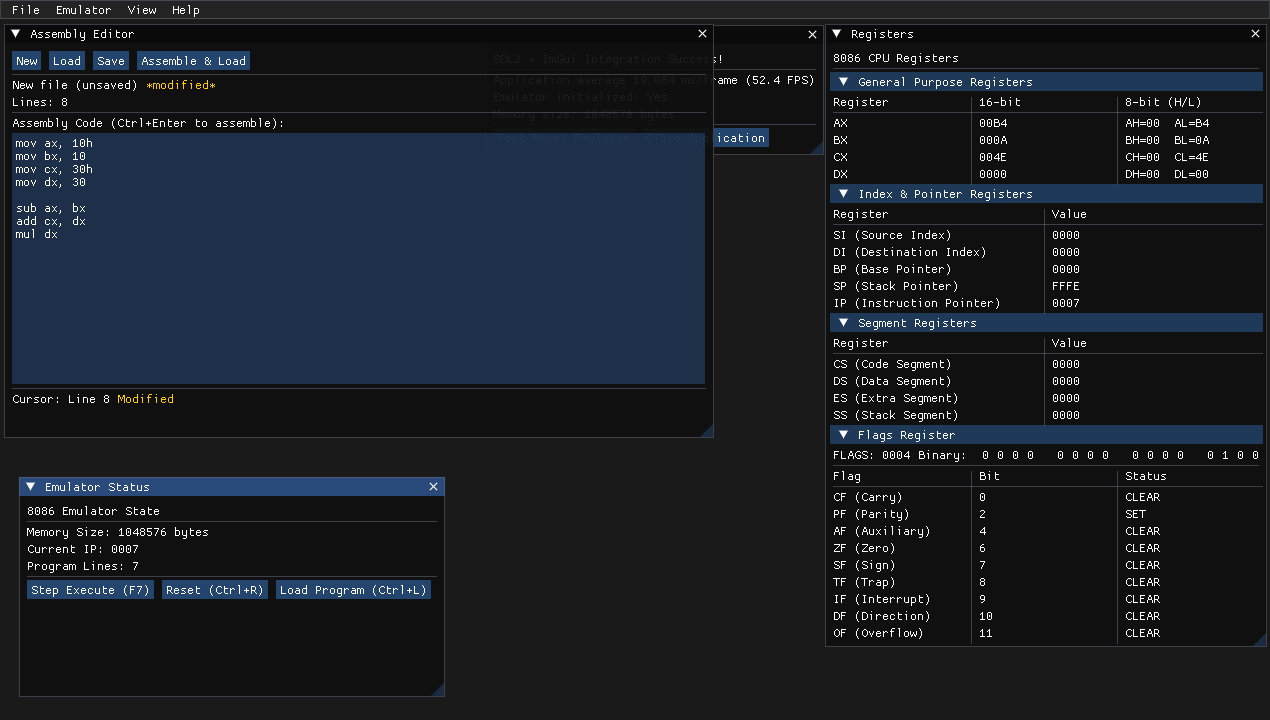
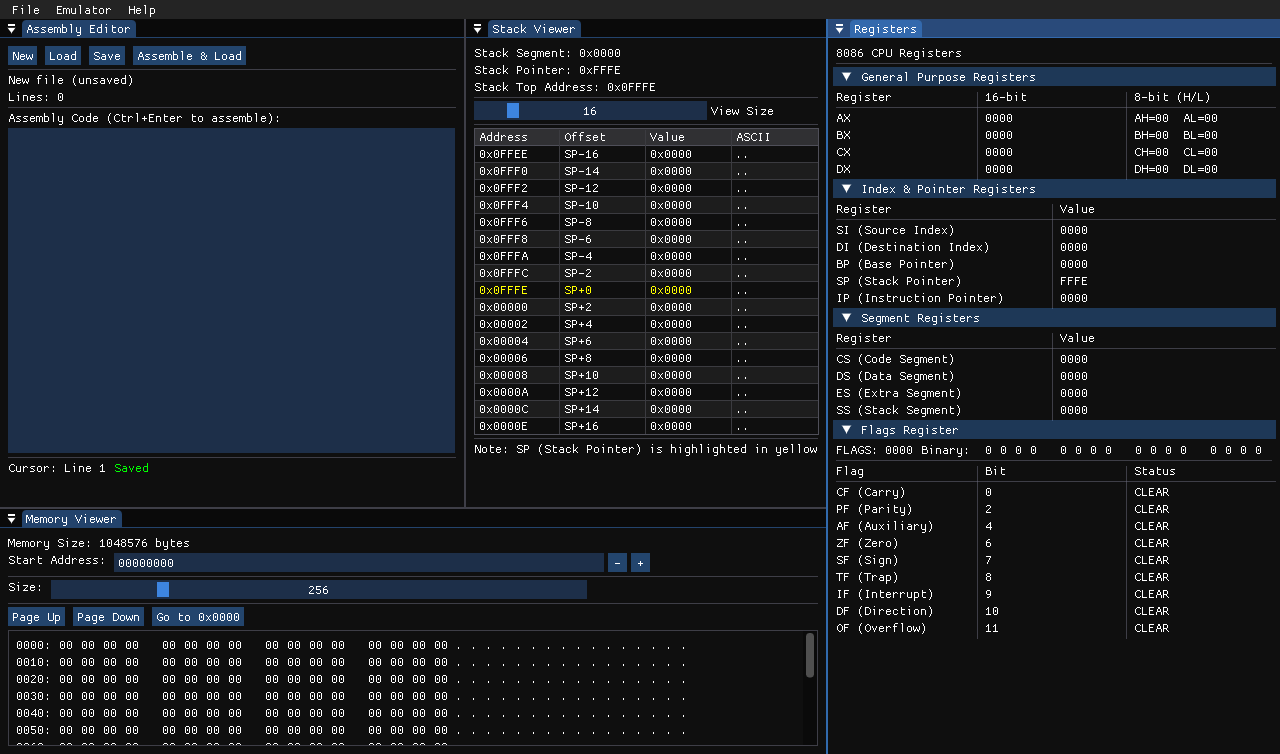
using docked version of ImGui.

Changed region(s): [[0.0, 0.0, 1.0, 0.9778], [0.9827, 0.8861, 1.0, 0.9167]]

diff --git a/src/gui/gui_application.cpp b/src/gui/gui_application.cpp
@@ -26,6 +26,7 @@
 #include <imgui.h>
 #include <imgui_impl_opengl3.h>
 #include <imgui_impl_sdl2.h>
+#include <imgui_internal.h>
 
 #include "emulator8086.h"
 #include "version.h"
@@ -565,10 +566,56 @@ void GUIApplication::render() {
 }
 
 void GUIApplication::renderImGui() {
+    ImGuiIO& io = ImGui::GetIO();
+    io.ConfigFlags |= ImGuiConfigFlags_DockingEnable;
+
+    ImGuiViewport* viewport = ImGui::GetMainViewport();
+    ImGui::SetNextWindowPos(viewport->Pos);
+    ImGui::SetNextWindowSize(viewport->Size);
+    ImGui::SetNextWindowViewport(viewport->ID);
+
+    ImGuiWindowFlags windowFlags = ImGuiWindowFlags_MenuBar | ImGuiWindowFlags_NoDocking;
+    windowFlags |= ImGuiWindowFlags_NoTitleBar | ImGuiWindowFlags_NoCollapse;
+    windowFlags |= ImGuiWindowFlags_NoResize | ImGuiWindowFlags_NoMove;
+    windowFlags |= ImGuiWindowFlags_NoBringToFrontOnFocus | ImGuiWindowFlags_NoNavFocus;
+
+    ImGui::PushStyleVar(ImGuiStyleVar_WindowRounding, 0.0f);
+    ImGui::PushStyleVar(ImGuiStyleVar_WindowBorderSize, 0.0f);
+    ImGui::PushStyleVar(ImGuiStyleVar_WindowPadding, ImVec2(0.0f, 0.0f));
+
+    ImGui::Begin("DockSpace", nullptr, windowFlags);
+    ImGui::PopStyleVar(3);
+
     renderMainMenuBar();
-    renderDemoWindow();
+
+    ImGuiID dockspaceId = ImGui::GetID("MainDockSpace");
+    ImGui::DockSpace(dockspaceId, ImVec2(0.0f, 0.0f), ImGuiDockNodeFlags_None);
+
+    static bool firstTime = true;
+    if (firstTime) {
+        firstTime = false;
+        ImGui::DockBuilderRemoveNode(dockspaceId);
+        ImGui::DockBuilderAddNode(dockspaceId, ImGuiDockNodeFlags_None);
+        ImGui::DockBuilderSetNodeSize(dockspaceId, viewport->Size);
+
+        ImGuiID rightId =
+            ImGui::DockBuilderSplitNode(dockspaceId, ImGuiDir_Right, 0.25f, nullptr, &dockspaceId);
+        ImGuiID bottomId =
+            ImGui::DockBuilderSplitNode(dockspaceId, ImGuiDir_Down, 0.4f, nullptr, &dockspaceId);
+        ImGuiID leftTopId =
+            ImGui::DockBuilderSplitNode(dockspaceId, ImGuiDir_Left, 0.6f, nullptr, &dockspaceId);
+
+        ImGui::DockBuilderDockWindow("Registers", rightId);
+        ImGui::DockBuilderDockWindow("Memory Viewer", bottomId);
+        ImGui::DockBuilderDockWindow("Assembly Editor", leftTopId);
+        ImGui::DockBuilderDockWindow("Stack Viewer", dockspaceId);
+
+        ImGui::DockBuilderFinish(dockspaceId);
+    }
+
+    ImGui::End();
+
     renderAssemblyEditor();
-    renderEmulatorStatus();
     renderRegistersWindow();
     renderMemoryWindow();
     renderStackWindow();
@@ -576,7 +623,7 @@ void GUIApplication::renderImGui() {
 }
 
 void GUIApplication::renderMainMenuBar() {
-    if (ImGui::BeginMainMenuBar()) {
+    if (ImGui::BeginMenuBar()) {
         if (ImGui::BeginMenu("File")) {
             if (ImGui::MenuItem("New", "Ctrl+N")) {
             }
@@ -629,23 +676,13 @@ void GUIApplication::renderMainMenuBar() {
             ImGui::EndMenu();
         }
 
-        if (ImGui::BeginMenu("View")) {
-            ImGui::MenuItem("Registers", "F2", &showRegistersWindow);
-            ImGui::MenuItem("Memory", "F3", &showMemoryWindow);
-            ImGui::MenuItem("Assembly", "F4", &showAssemblyEditor);
-            ImGui::MenuItem("Stack", "F5", &showStackWindow);
-            ImGui::Separator();
-            ImGui::MenuItem("Demo Window", nullptr, &showDemoWindow);
-            ImGui::EndMenu();
-        }
-
         if (ImGui::BeginMenu("Help")) {
             if (ImGui::MenuItem("About")) {
             }
             ImGui::EndMenu();
         }
 
-        ImGui::EndMainMenuBar();
+        ImGui::EndMenuBar();
     }
 }
 
@@ -687,10 +724,7 @@ void GUIApplication::renderDemoWindow() {
 }
 
 void GUIApplication::renderAssemblyEditor() {
-    if (!showAssemblyEditor)
-        return;
-
-    if (ImGui::Begin("Assembly Editor", &showAssemblyEditor)) {
+    if (ImGui::Begin("Assembly Editor")) {
         if (ImGui::Button("New")) {
             assemblyLines.clear();
             assemblyLines.push_back("; New 8086 Assembly Program");
@@ -860,10 +894,10 @@ void GUIApplication::renderEmulatorStatus() {
 }
 
 void GUIApplication::renderRegistersWindow() {
-    if (!showRegistersWindow || !emulator)
+    if (!emulator)
         return;
 
-    if (ImGui::Begin("Registers", &showRegistersWindow)) {
+    if (ImGui::Begin("Registers")) {
         const auto& regs = emulator->getRegisters();
 
         ImGui::Text("8086 CPU Registers");
@@ -979,7 +1013,8 @@ void GUIApplication::renderRegistersWindow() {
 
         if (ImGui::CollapsingHeader("Flags Register", ImGuiTreeNodeFlags_DefaultOpen)) {
             ImGui::Text("FLAGS: %04X", regs.FLAGS);
-            ImGui::SameLine();
+            // ImGui::SameLine();
+            ImGui::Separator();
             ImGui::Text("Binary: ");
             for (int i = 15; i >= 0; i--) {
                 ImGui::SameLine();
@@ -1071,10 +1106,10 @@ void GUIApplication::renderRegistersWindow() {
 }
 
 void GUIApplication::renderMemoryWindow() {
-    if (!showMemoryWindow || !emulator)
+    if (!emulator)
         return;
 
-    if (ImGui::Begin("Memory Viewer", &showMemoryWindow)) {
+    if (ImGui::Begin("Memory Viewer")) {
         const auto& memory = emulator->getMemory();
 
         ImGui::Text("Memory Size: %zu bytes", memory.size());
@@ -1088,12 +1123,26 @@ void GUIApplication::renderMemoryWindow() {
                 std::max(0, std::min(displayAddr, (int)memory.size() - memoryViewSize));
         }
 
-        ImGui::SameLine();
+        // ImGui::SameLine();
+        ImGui::Separator();
         ImGui::Text("Size:");
         ImGui::SameLine();
         ImGui::SliderInt("##ViewSize", &memoryViewSize, 64, 1024);
 
         ImGui::Separator();
+
+        if (ImGui::Button("Page Up")) {
+            memoryViewStart = std::max(0, memoryViewStart - memoryViewSize);
+        }
+        ImGui::SameLine();
+        if (ImGui::Button("Page Down")) {
+            memoryViewStart =
+                std::min((int)memory.size() - memoryViewSize, memoryViewStart + memoryViewSize);
+        }
+        ImGui::SameLine();
+        if (ImGui::Button("Go to 0x0000")) {
+            memoryViewStart = 0;
+        }
 
         ImGui::BeginChild(
             "MemoryDisplay", ImVec2(0, 0), true, ImGuiWindowFlags_HorizontalScrollbar);
@@ -1129,7 +1178,7 @@ void GUIApplication::renderMemoryWindow() {
                 }
 
                 ImGui::SameLine();
-                ImGui::Text(" |");
+                // ImGui::Text(" |");
                 ImGui::SameLine();
 
                 for (int col = 0; col < 16; col++) {
@@ -1144,24 +1193,11 @@ void GUIApplication::renderMemoryWindow() {
                     if (col < 15)
                         ImGui::SameLine();
                 }
-                ImGui::Text("|");
+                // ImGui::Text("|");
             }
         }
 
         ImGui::EndChild();
-
-        if (ImGui::Button("Page Up")) {
-            memoryViewStart = std::max(0, memoryViewStart - memoryViewSize);
-        }
-        ImGui::SameLine();
-        if (ImGui::Button("Page Down")) {
-            memoryViewStart =
-                std::min((int)memory.size() - memoryViewSize, memoryViewStart + memoryViewSize);
-        }
-        ImGui::SameLine();
-        if (ImGui::Button("Go to 0x0000")) {
-            memoryViewStart = 0;
-        }
 
         ImGui::End();
     }
@@ -1271,11 +1307,11 @@ void GUIApplication::cleanupSDL() {
 }
 
 void GUIApplication::renderStackWindow() {
-    if (!showStackWindow || !emulator) {
+    if (!emulator) {
         return;
     }
 
-    if (ImGui::Begin("Stack Viewer", &showStackWindow)) {
+    if (ImGui::Begin("Stack Viewer")) {
         const auto& registers = emulator->getRegisters();
         uint16_t sp = registers.SP;
         uint16_t ss = registers.SS;
@@ -1351,7 +1387,9 @@ void GUIApplication::renderStackWindow() {
         }
 
         ImGui::Separator();
-        ImGui::Text("Note: SP (Stack Pointer) is highlighted in yellow");
+        ImGui::PushStyleColor(ImGuiCol_Text, ImVec4(1.0f, 1.0f, 0.0f, 1.0f));
+        ImGui::Text("Note: SP (Stack Pointer)");
+        ImGui::PopStyleColor();
     }
     ImGui::End();
 }

diff --git a/src/gui/main_gui.cpp b/src/gui/main_gui.cpp
@@ -11,8 +11,8 @@ int main_gui(int argc, char* argv[]) {
 
     std::string window_title = "Im8086 Emulator v" + std::to_string(PROJECT_VERSION_MAJOR) + "." +
                                std::to_string(PROJECT_VERSION_MINOR) + "." +
-                               std::to_string(PROJECT_VERSION_PATCH) +
-                               " - Intel 8086 Microprocessor Emulator";
+                               std::to_string(PROJECT_VERSION_PATCH);
+    //    " - Intel 8086 Microprocessor Emulator";
 
     GUIApplication app;
     if (!app.initialize(1280, 720, window_title)) {

diff --git a/include/gui/gui_application.h b/include/gui/gui_application.h
@@ -50,7 +50,7 @@ class GUIApplication {
 
     int memoryViewStart = 0;
     int memoryViewSize = 256;
-    int stackViewSize = 32;
+    int stackViewSize = 16;
 
     bool assemblyEditorModified = false;
     std::string assemblyEditorBuffer;
